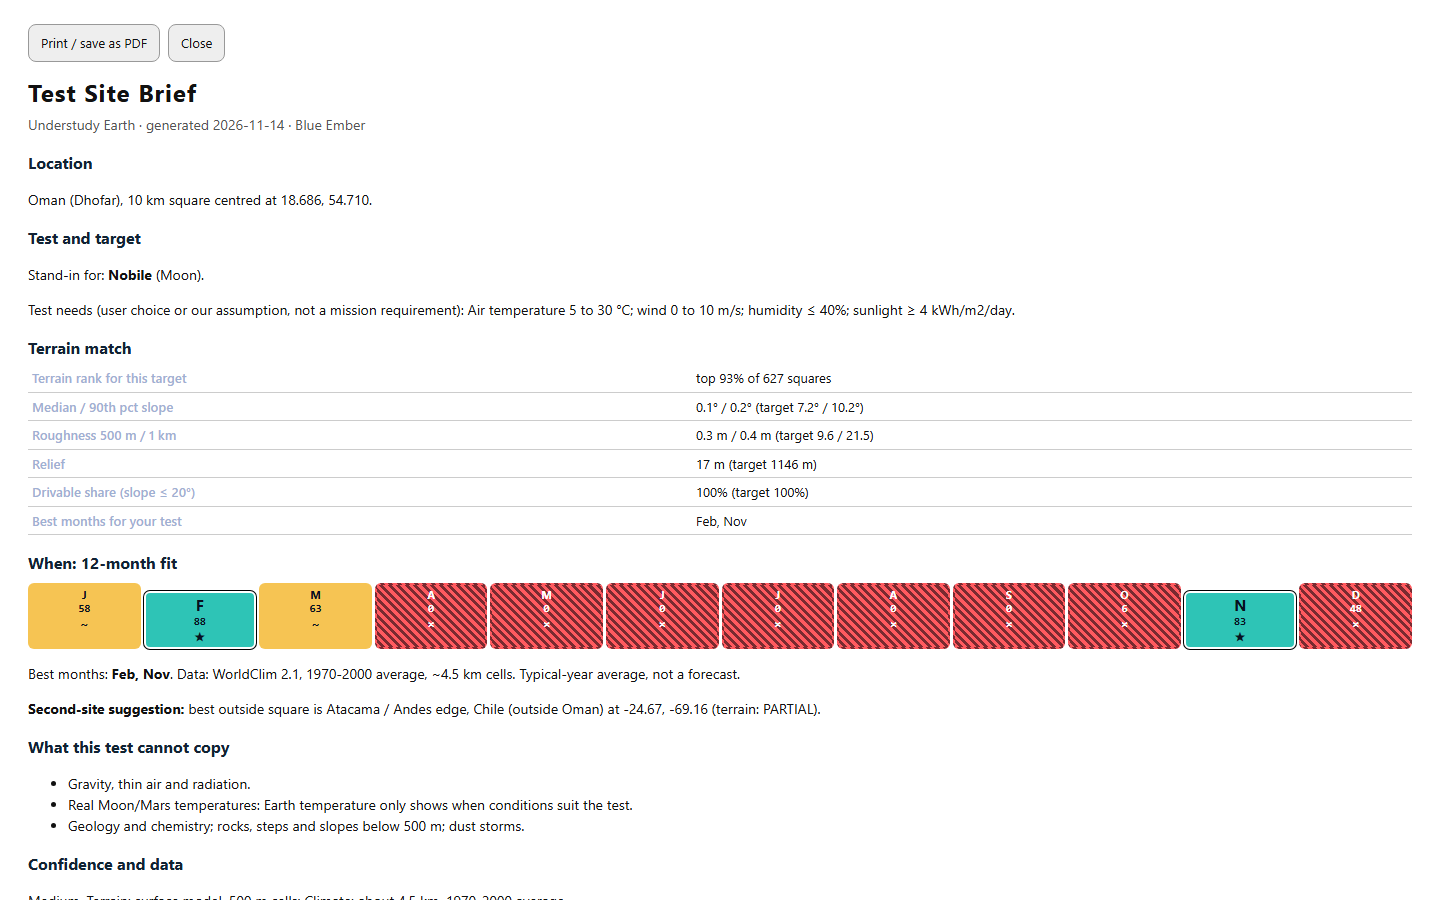
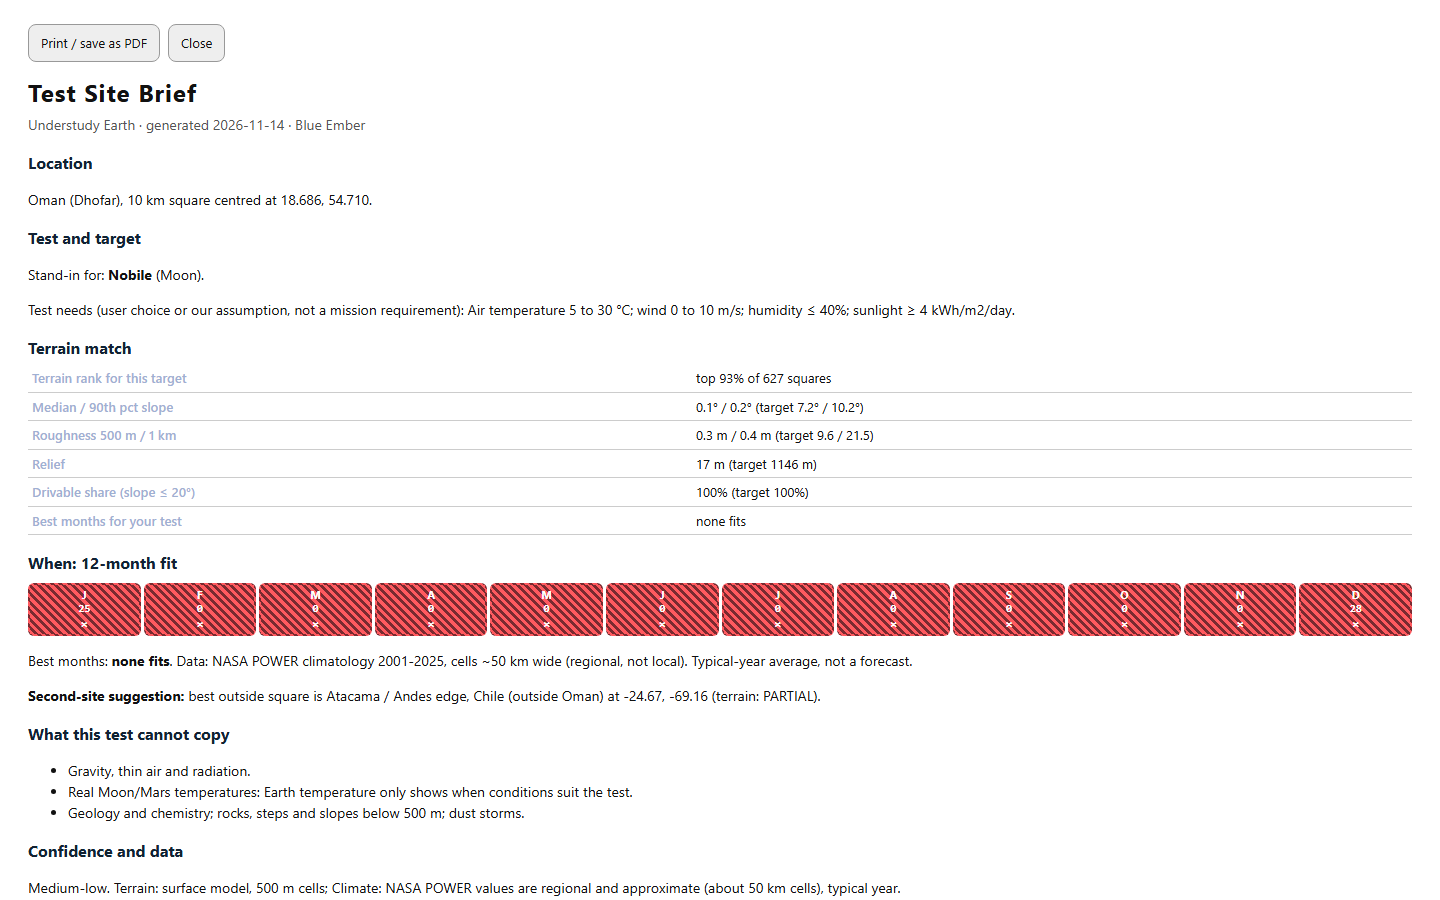
remove second climate source, realistic default test needs

Changed region(s): [[0.0, 0.6222, 1.0, 1.0], [0.4688, 0.56, 0.5312, 0.5911]]

diff --git a/app/app.js b/app/app.js
@@ -11,8 +11,8 @@
   var FIELDS = ['tlo', 'thi', 'wmin', 'wmax', 'rhmax', 'smin', 'limit'];
 
   function load(f, opt) { return fetch('data/' + f).then(function (r) { if (!r.ok) { if (opt) return null; throw new Error(f + ' ' + r.status); } return r.json(); }).catch(function (e) { if (opt) return null; throw e; }); }
-  Promise.all([load('meta.json'), load('earth.json'), load('targets.json'), load('results.json'), load('second_check.json'), load('climate_power.json'), load('climate_worldclim.json', true)]).then(function (a) {
-    D.meta = a[0]; D.earth = a[1]; D.targets = a[2]; D.results = a[3]; D.second = a[4]; D.power = a[5]; D.wc = a[6];
+  Promise.all([load('meta.json'), load('earth.json'), load('targets.json'), load('results.json'), load('second_check.json'), load('climate_power.json')]).then(function (a) {
+    D.meta = a[0]; D.earth = a[1]; D.targets = a[2]; D.results = a[3]; D.second = a[4]; D.power = a[5];
     SC = UEScore(D.meta); init();
   }).catch(function (e) {
     var el = $('loaderr'); el.hidden = false; el.textContent = 'Could not load the data files (' + e.message + '). Reload the page; if it persists the site files are missing.';
@@ -20,8 +20,6 @@
 
   function climate(e) {
     if (e._c) return e._c;
-    var w = D.wc && D.wc.win[e.id];
-    if (w) return (e._c = { tmax: w.tmax, tmin: w.tmin, wind: w.wind, rh: w.rh, srad: w.srad, src: 'WorldClim 2.1, 1970-2000 average, ~4.5 km cells', coarse: false });
     var c = D.power.cells[D.power.win[e.id]];
     return (e._c = { tmax: c.T2M_MAX, tmin: c.T2M_MIN, wind: c.WS2M, rh: c.RH2M, srad: c.ALLSKY_SFC_SW_DWN, src: 'NASA POWER climatology 2001-2025, cells ~50 km wide (regional, not local)', coarse: true });
   }
@@ -190,7 +188,7 @@
 
   function confidence(e) {
     var c = climate(e), items = ['Terrain: surface model, 500 m cells'];
-    items.push(c.coarse ? 'Climate: coarse (about 50 km cells), typical year' : 'Climate: about 4.5 km, 1970-2000 average');
+    items.push('Climate: NASA POWER values are regional and approximate (about 50 km cells), typical year');
     if (e.group === 'oman_dhofar' && e.approx) items.push('Site location approximate');
     var low = c.coarse || e.group.indexOf('oman') !== 0;
     return { level: low ? 'Medium-low' : 'Medium', items: items };
@@ -251,7 +249,7 @@
       '<h2>Terrain match</h2><table>' + metricRows(e).map(function (r) { return '<tr><th>' + esc(r[0]) + '</th><td>' + esc(r[1]) + '</td></tr>'; }).join('') + '</table>' +
       '<h2>When: 12-month fit</h2>' + stripHtml(e) + '<p>Best months: <b>' + (e._best.length ? esc(N.monthsText(e._best)) : 'none fits') + '</b>. Data: ' + esc(c.src) + '. Typical-year average, not a forecast.</p>' + second +
       '<h2>What this test cannot copy</h2><ul><li>Gravity, thin air and radiation.</li><li>Real Moon/Mars temperatures: Earth temperature only shows when conditions suit the test.</li><li>Geology and chemistry; rocks, steps and slopes below 500 m; dust storms.</li></ul>' +
-      '<h2>Confidence and data</h2><p>' + esc(cf.level) + '. ' + cf.items.map(esc).join('; ') + '.</p><p class="sub">Data: Copernicus DEM GLO-30 (ESA), LOLA and MOLA (NASA), NASA POWER climatology' + (D.wc ? ', WorldClim 2.1' : '') + '. See docs/REFERENCES.md.</p>';
+      '<h2>Confidence and data</h2><p>' + esc(cf.level) + '. ' + cf.items.map(esc).join('; ') + '.</p><p class="sub">Data: Copernicus DEM GLO-30 (ESA), LOLA and MOLA (NASA), NASA POWER climatology' + '' + '. See docs/REFERENCES.md.</p>';
     $('brief').hidden = false; window.scrollTo(0, 0);
   }
 

diff --git a/app/needs.js b/app/needs.js
@@ -10,7 +10,7 @@
     walking: { label: 'Walking test', tlo: 5, thi: 35, wmin: 0, wmax: 7, rhmax: 100, smin: 3, limit: 17 },
     cold: { label: 'Cold test', tlo: -30, thi: 10, wmin: 0, wmax: 12, rhmax: 100, smin: 0, limit: 17 }
   };
-  var DEFAULT = { tlo: 5, thi: 35, wmin: 0, wmax: 12, rhmax: 100, smin: 0, limit: 17 };
+  var DEFAULT = { tlo: 0, thi: 40, wmin: 0, wmax: 12, rhmax: 100, smin: 4, limit: 17 };
 
   function clamp01(x) { return x < 0 ? 0 : (x > 1 ? 1 : x); }
 

diff --git a/tests/run_browser.py b/tests/run_browser.py
@@ -41,6 +41,6 @@ try:
         b.close()
 finally:
     srv.terminate()
-real = [e for e in errs if "favicon" not in e and not ("404" in e and miss and all("climate_worldclim" in u for u in miss))]
+real = [e for e in errs if "favicon" not in e]
 print("console errors:", real or "none")
 sys.exit(1 if real else 0)

diff --git a/docs/PROGRESS.md b/docs/PROGRESS.md
@@ -1,10 +1,10 @@
 # PROGRESS
 
 ## RESUME HERE
-- Current state: core upgraded to a "where and when" planner. Stages 0, 1, 2, 3, 4 done; Stage 1b (WorldClim) processed locally but NOT published (licence forbids redistribution without permission; ask owner). Stage 5 extras 1-5 done; 6 (whole-Oman 90 m) and 7 (click on Mars) not done.
+- Current state: core upgraded to a "where and when" planner. Stages 0, 1, 2, 3, 4 done; the second climate source was dropped (licence); NASA POWER only. Stage 5 extras 1-5 done; 6 (whole-Oman 90 m) and 7 (click on Mars) not done.
 - Deploy: `git subtree push --prefix app origin gh-pages`; owner must enable Pages (Settings > Pages > gh-pages / root). Link: https://samaralhadhrami.github.io/understudy-earth/
 - Tests: `python -m pytest tests -q`, `node tests/check_js_score.js`, `node tests/check_needs.js`, `PYTHONIOENCODING=utf-8 python tests/run_browser.py`.
-- Rebuild data: `python pipeline/build_windows.py && python pipeline/analyse.py && python pipeline/verify.py && python pipeline/power.py` (+ `python pipeline/worldclim.py` locally).
+- Rebuild data: `python pipeline/build_windows.py && python pipeline/analyse.py && python pipeline/verify.py && python pipeline/power.py`.
 - Open problems: rover limit sources need primary confirmation; AMADEE-18 site approximate (Marmul); reference PDF not on disk; ready-made test numbers are our assumptions.
 - Bug fixed: .gitignore `data/` also ignored app/data, so the first deploy had no data files. Now `/data/` only.
 
@@ -30,5 +30,4 @@
 - Blind test: AMADEE-18 area top 10.7% (mean over Mars targets) / 24.0% (best target); Meteor Crater 4.5% / 22.4%; Atacama tile 50.6% / 24.9%.
 - NASA POWER: 30 cells cached; tests check units, ordering and raw-cache equality.
 - AMADEE-18 replay (assumed needs: day max <= 35 C, night min >= 5 C, sun >= 4): planner best months Jan and Dec; Feb scores 80 (good, not top). Real phase Feb 2018 (OeWF).
-- WorldClim cross-check (627 windows, WorldClim minus NASA POWER, mean over windows): mean temperature agrees within about 1 C (mean abs 1.1); wind mean abs 0.8 m/s; sunlight mean abs 0.5 kWh/m2/day. But POWER T2M_MAX is about 7 C higher and T2M_MIN about 5 C lower than WorldClim mean daily max/min (POWER daily range is wider, likely extremes or reanalysis bias). Consequence: the published strip (POWER) is conservative for "day max / night min" needs. Aggregates only, in docs/climate_crosscheck.json; WorldClim per-window values stay local (licence). Ask owner before publishing them or asking WorldClim for permission (info@worldclim.org).
 - Public link verified live (418 squares render): https://samaralhadhrami.github.io/understudy-earth/

diff --git a/docs/TRD.md b/docs/TRD.md
@@ -2,7 +2,7 @@
 
 **Stack.** Python (numpy, scipy, rasterio, pyproj) precomputes; static HTML/JS + Leaflet; GitHub Pages. No server, no API key, no AI at runtime.
 
-**Data (raw in data/, git-ignored).** Copernicus GLO-30 tiles (Oman: N23E058, N17/N18 E054/E055; checks: N35W112, S25W070); LOLA LDEM/LDSM 80 m south pole; MOLA 463 m; NASA POWER monthly climatology (cached in data/power_cache); WorldClim 2.1 2.5 arc-min (data/worldclim, local only, see licence).
+**Data (raw in data/, git-ignored).** Copernicus GLO-30 tiles (Oman: N23E058, N17/N18 E054/E055; checks: N35W112, S25W070); LOLA LDEM/LDSM 80 m south pole; MOLA 463 m; NASA POWER monthly climatology (cached in data/power_cache).
 
 ## Terrain similarity
 1. Each 10 km window is area-averaged to 500 m cells (windowed reads, `Resampling.average`). Slope by central differences; roughness = deviation from 3x3 mean, at 500 m and at 1 km (2x2 block mean); relief; steep share (>10 deg); 2D slope x roughness histogram.
@@ -15,12 +15,11 @@
 
 ## Climate and "when"
 - Per window the nearest NASA POWER cell (0.5 x 0.625 deg, about 50 km): T2M_MAX, T2M_MIN, WS2M, RH2M, ALLSKY_SFC_SW_DWN (monthly climatology 2001-2025). Regional values only.
-- WorldClim 2.1 (finer, about 4.5 km, 1970-2000) drives the strip when present locally; POWER is the published climate source and the cross-check (docs/climate_crosscheck.json).
 - Month fit = 100 x (1 - worst penalty) over: day max above the window, night min below it, wind outside range, humidity above limit, sunlight below minimum. Fade margins (5 C, 1.5 m/s, 15 points, 1 kWh) are our assumptions. Tier: 75+ good, 50+ partial.
 - Best months: within 90% of the best fit and at least 50, at most 3.
 - Where+when colour = worse of terrain tier and best-month tier.
 
-- Cross-check: WorldClim and POWER mean temperatures agree within about 1 C, but POWER daily max/min are about 7 C hotter / 5 C colder than WorldClim mean daily max/min, so POWER-driven strips are conservative.
 
 ## Known limits
 500 m cells hide rocks and steps; rover limit is rover-scale; DSM vs bare ground; Moon south pole only; Oman = tiles we hold; climate is a typical-year average on coarse cells; ready-made test numbers are our assumptions.
+- NASA POWER values are regional and approximate (about 50 km cells); the strip and Fit Verdict use POWER only.

diff --git a/docs/REFERENCES.md b/docs/REFERENCES.md
@@ -5,7 +5,6 @@
 - NASA POWER (Prediction Of Worldwide Energy Resources), monthly and annual climatology API v2.10.1, power.larc.nasa.gov, community RE, endpoint /api/temporal/climatology/point, parameters T2M, T2M_MAX, T2M_MIN, WS2M, RH2M, PRECTOTCORR, ALLSKY_SFC_SW_DWN, 25-year climatology Jan 2001 to Dec 2025, accessed 2026-11-14. Native cells about 0.5 x 0.625 degrees (about 50 km), so values are regional.
 ## Partner and other data
 - Copernicus DEM GLO-30, ESA, via AWS open data (copernicus-dem-30m). ESA partner data.
-- WorldClim 2.1 monthly climate, 2.5 arc-minute, 1970-2000 average: Fick, S.E. and Hijmans, R.J. (2017), WorldClim 2: new 1-km spatial resolution climate surfaces for global land areas, International Journal of Climatology 37(12), 4302-4315. Licence (worldclim.org/about.html, checked 2026-11-14): "freely available for academic use and other non-commercial use. Redistribution or commercial use is not allowed without prior permission." Derived per-window values are therefore kept local and NOT published; the public app uses NASA POWER. Permission would be needed to publish them.
 - Mars 2020 TRN HiRISE DTM mosaic of Jezero, USGS Astrogeology, 2020 (downloaded, not used in current results).
 ## Rover limit benchmarks (confirm against primary sources before final)
 - Curiosity and Perseverance designed for about 30 deg slopes; Perseverance Jezero exit climbed more than 20 deg: NASA JPL news, "NASA's Perseverance Rover Looks Back While Climbing Slippery Slope", nasa.gov.

diff --git a/docs/SUBMISSION_TEXT.md b/docs/SUBMISSION_TEXT.md
@@ -14,7 +14,7 @@ Limits: 500 m cells hide rocks and steps; rover slope limit is a rover-scale ben
 
 **NASA data used:** LRO LOLA south-pole elevation and slope products; Mars Global Surveyor MOLA 463 m global DEM; NASA POWER monthly climatology.
 
-**Space Agency partner data and references:** Copernicus DEM GLO-30 (ESA). Libraries: numpy, scipy, rasterio, pyproj, Playwright (testing), Leaflet. Basemap (c) OpenStreetMap contributors. AMADEE-18: Austrian Space Forum (OeWF). Rover benchmarks and all other sources: docs/REFERENCES.md. (WorldClim was evaluated locally only; its licence does not allow redistribution, so it is not used in the published app. Do not list it as used unless permission is obtained.)
+**Space Agency partner data and references:** Copernicus DEM GLO-30 (ESA). Libraries: numpy, scipy, rasterio, pyproj, Playwright (testing), Leaflet. Basemap (c) OpenStreetMap contributors. AMADEE-18: Austrian Space Forum (OeWF). Rover benchmarks and all other sources: docs/REFERENCES.md.
 
 **Use of AI (SI) - draft, edit before use:**
 The project idea and its direction were chosen by me. I used AI tools for research, checking sources, help writing and debugging code, and help with text. AI-assisted code and text are described in the repository README. No AI-made images or videos are used.

diff --git a/docs/IMPLEMENTATION_PLAN.md b/docs/IMPLEMENTATION_PLAN.md
@@ -1,6 +1,6 @@
 # IMPLEMENTATION PLAN (status)
 Stage 0 rank-based terrain similarity + absolute gap: done, tested.
-Stage 1 NASA POWER monthly climate: done, tested. Stage 1b WorldClim: processed locally, not published (licence).
+Stage 1 NASA POWER monthly climate: done, tested.
 Stage 2 when strip: done. Stage 3 Test Site Brief: done. Stage 4 AMADEE-18 replay: done.
 Stage 5 extras: 1 sentence box + presets (done), 2 chart (done), 3 compare (done), 4 share link (done), 5 confidence (done), 6 whole-Oman 90 m (not done), 7 click on Mars (not done).
 Tests: `python -m pytest tests -q`, `node tests/check_js_score.js`, `node tests/check_needs.js`, `python tests/run_browser.py`.

diff --git a/docs/UIUX_BRIEF.md b/docs/UIUX_BRIEF.md
@@ -2,6 +2,6 @@
 Direction: mission control meets clean data story. Dark navy, teal/amber/vermilion tiers, monospace numbers.
 Colour-blind safe: POOR squares and months use a hatch pattern; every month cell carries a number and a symbol (star best, tick good, ~ partial, x poor); legend uses words.
 Layout: desktop = map left, panel right; phone = map on top, panel below, no horizontal scroll (tested at 390 px).
-States: loading error message; empty result hint; optional WorldClim file may be absent (POWER used).
+States: loading error message; empty result hint.
 Print: Test Site Brief has its own print stylesheet (white, one page).
 30 s demo path: see DEMO_SCRIPT.md.

diff --git a/docs/BACKEND_SCHEMA.md b/docs/BACKEND_SCHEMA.md
@@ -5,5 +5,4 @@
 - `results.json`: gap table, blind test, leave-one-out sensitivity, scales.
 - `second_check.json`: independent slope check rows.
 - `climate_power.json`: {cells: {key: {lat, lon, T2M, T2M_MAX, T2M_MIN, WS2M, RH2M, PRECTOTCORR, ALLSKY_SFC_SW_DWN (12 months each)}}, win: {window id: cell key}, source, accessed}.
-- `climate_worldclim.json`: optional, NOT committed (WorldClim licence); {win: {id: {tmax,tmin,tavg,wind,rh,srad}}}. The app falls back to POWER when absent.
 All files together are under 1 MB.
